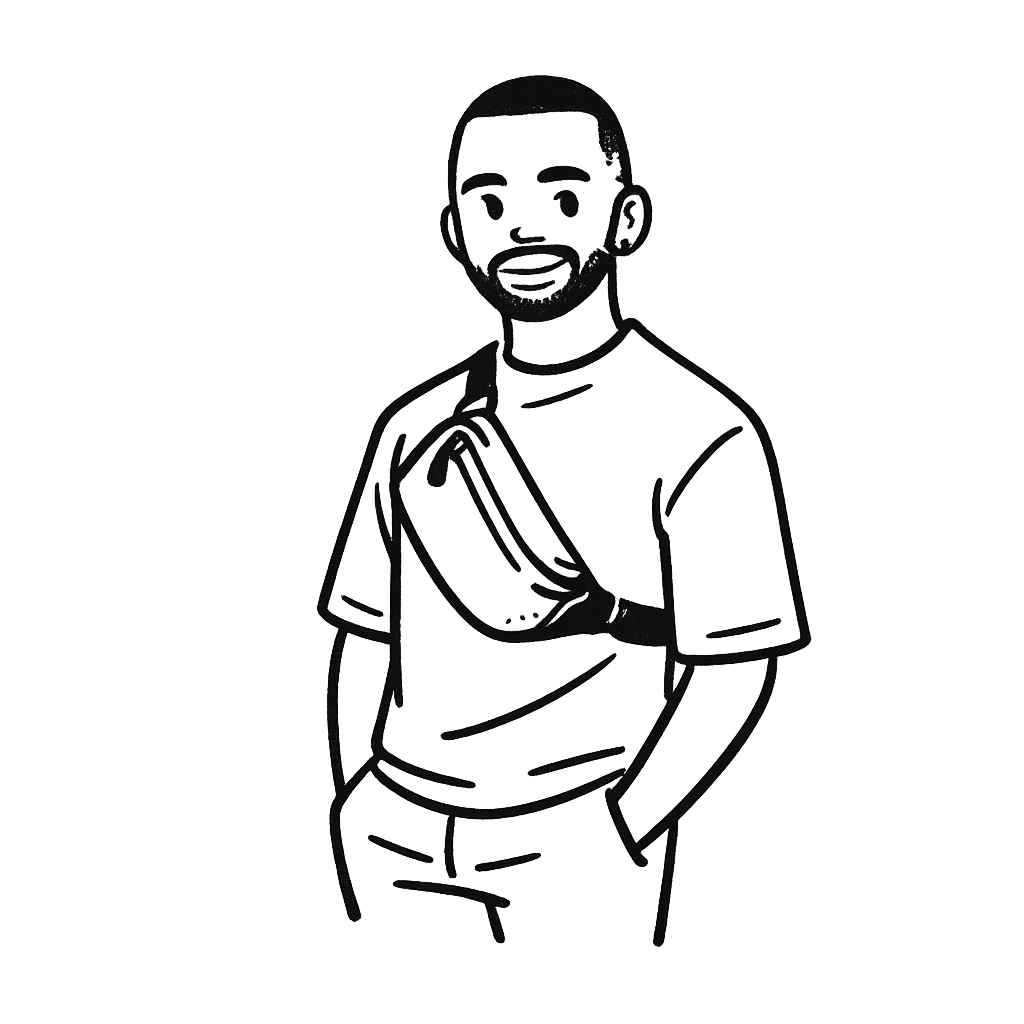
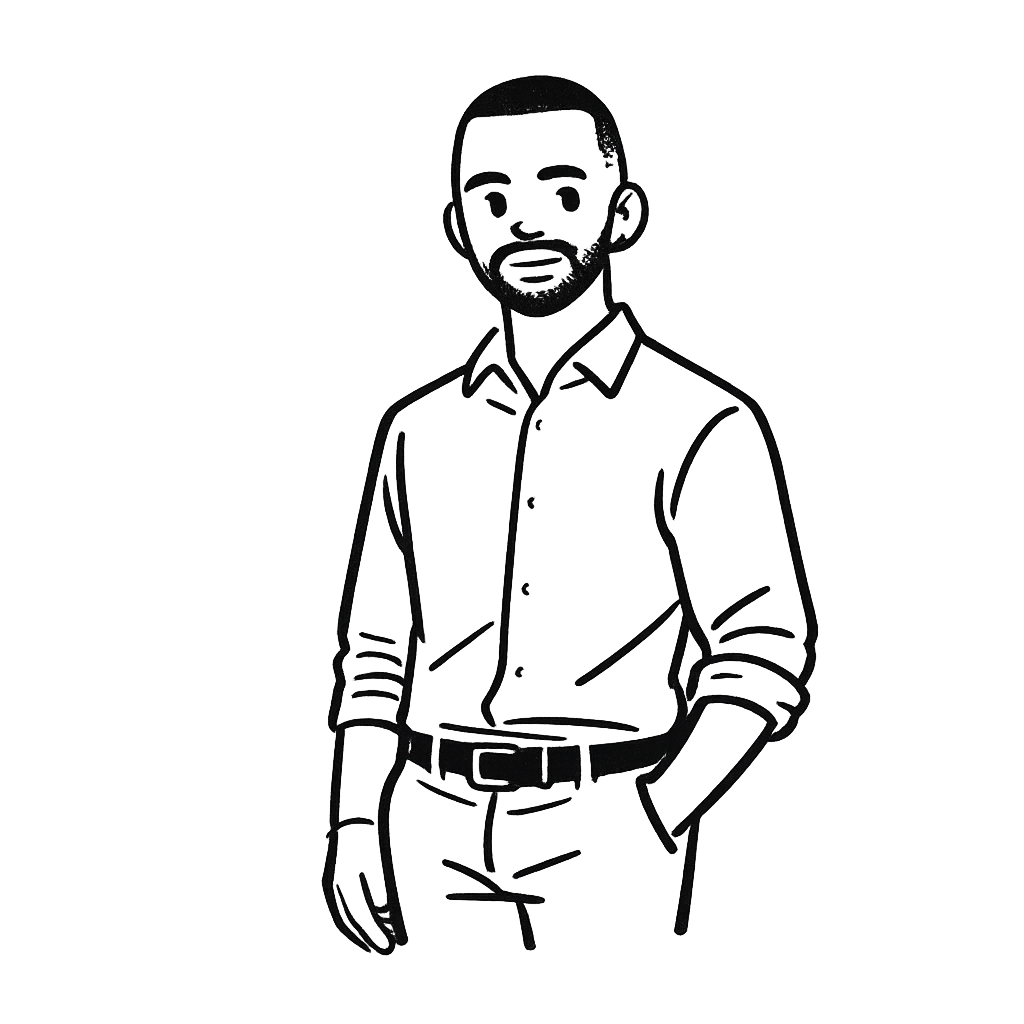
Remplace l'illustration, +10% image mobile

Changed region(s): [[0.3125, 0.0938, 0.8125, 0.9375]]

diff --git a/assets/css/style.css b/assets/css/style.css
@@ -126,7 +126,7 @@ img:not([src]), img[src=""] { background: #f1f2f4; }
 @media (max-width: 860px) {
   .hero-art  { order: -1; }
   .hero-text { order:  0; }
-  .hero-art img { max-width: 280px; margin-inline: auto; }
+  .hero-art img { max-width: 308px; margin-inline: auto; }
 }
 
 /* =========================================================================